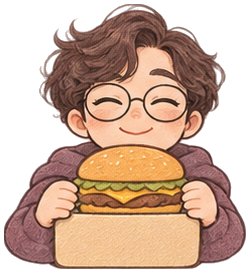
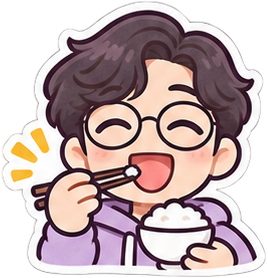
Adapt Studio sticker captions to each illustration

diff --git a/components/studio/studioCanvas.ts b/components/studio/studioCanvas.ts
@@ -1,4 +1,6 @@
-import { studioStickerBounds, studioStickerCaptionSlot, studioStickerCells, studioStickerCrossesSeam, type StickerRect } from "@/lib/studioStickerGeometry";
+import {
+  studioStickerBounds, studioStickerCaptionOutside, studioStickerCaptionSlot, studioStickerCells, studioStickerCrossesSeam, type StickerRect,
+} from "@/lib/studioStickerGeometry";
 import { studioStickerLayout } from "@/lib/studioTools";
 
 export const studioImageTypes = ["image/png", "image/jpeg", "image/webp"];
@@ -91,34 +93,91 @@ function splitCaption(text: string): string[] {
   return [graphemes.slice(0, split).join("").trimEnd(), graphemes.slice(split).join("").trimStart()];
 }
 
+const stickerFont = "system-ui, sans-serif";
+const stickerLineHeight = 1.16;
+const stickerCaptionColors = [
+  { hue: 292, ink: "#89519f", edge: "#e9ccfa" },
+  { hue: 350, ink: "#a34a74", edge: "#f6c9df" },
+  { hue: 28, ink: "#985429", edge: "#ffdbb4" },
+  { hue: 119, ink: "#557544", edge: "#daedb9" },
+  { hue: 177, ink: "#397a74", edge: "#bdeee5" },
+  { hue: 226, ink: "#536aa3", edge: "#cddcfc" },
+];
+
+function stickerCaptionPalette(pixels: Uint8ClampedArray, stride: number, art: StickerRect) {
+  const weights = stickerCaptionColors.map(() => 0);
+  for (let y = art.top; y < art.top + art.height; y += 4) {
+    for (let x = art.left; x < art.left + art.width; x += 4) {
+      const index = (y * stride + x) * 4;
+      if (pixels[index + 3] < 192) continue;
+      const red = pixels[index], green = pixels[index + 1], blue = pixels[index + 2];
+      const max = Math.max(red, green, blue);
+      const chroma = max - Math.min(red, green, blue);
+      if (chroma < 22 || max < 65) continue;
+      const sector = max === red ? (green - blue) / chroma
+        : max === green ? 2 + (blue - red) / chroma
+        : 4 + (red - green) / chroma;
+      const hue = (sector * 60 + 360) % 360;
+      if (hue >= 12 && hue <= 52 && red > 160 && chroma < 105) continue;
+      const distance = (other: number) => Math.min(Math.abs(other - hue), 360 - Math.abs(other - hue));
+      const closest = stickerCaptionColors.reduce((best, color, i) => (
+        distance(color.hue) < distance(stickerCaptionColors[best].hue) ? i : best
+      ), 0);
+      weights[closest] += chroma;
+    }
+  }
+  return stickerCaptionColors[weights.indexOf(Math.max(...weights))];
+}
+
 function stickerCaption(
   context: CanvasRenderingContext2D, pixels: Uint8ClampedArray, stride: number, art: StickerRect, text: string,
 ) {
-  const font = "system-ui, sans-serif";
-  context.font = `750 100px ${font}`;
-  const layout = (lines: string[]) => {
-    const bandHeight = Math.max(2, Math.round(art.height * (lines.length === 1 ? .20 : .29)));
-    const slot = studioStickerCaptionSlot(pixels, stride, art, bandHeight);
-    if (!slot) return null;
-    const widest = Math.max(...lines.map(line => context.measureText(line).width), 1) / 100;
-    const size = Math.min(slot.height / (lines.length * 1.2), slot.width * .86 / widest, art.width * .175);
-    return { lines, slot, size };
+  const shortSide = Math.min(art.width, art.height);
+  const maxSize = shortSide * .18;
+  context.font = `750 100px ${stickerFont}`;
+  context.textAlign = "center";
+  context.textBaseline = "middle";
+  const measure = (lines: string[], maxWidth: number, maxHeight: number) => {
+    const metrics = lines.map(line => context.measureText(line));
+    const widest = metrics.map(line => Math.max(line.width, 2 * Math.max(line.actualBoundingBoxLeft, line.actualBoundingBoxRight)));
+    const width = Math.max(1, ...widest) / 100 + .14;
+    const height = Math.max(1, ...metrics.map(line => 2 * Math.max(line.actualBoundingBoxAscent, line.actualBoundingBoxDescent) / 100))
+      + (lines.length - 1) * stickerLineHeight + .14;
+    const size = Math.min(maxSize, maxWidth / width, maxHeight / height);
+    return { lines, size, width: width * size, height: height * size };
   };
-  const oneLine = layout([text]);
-  const twoLines = text.length > 6 ? layout(splitCaption(text)) : null;
-  const chosen = twoLines && twoLines.size > (oneLine?.size ?? 0) * 1.16 ? twoLines : oneLine;
-  if (!chosen || chosen.size < art.height * .063) return null;
-
-  const { slot } = chosen;
-  let luminance = 0, samples = 0;
-  for (let y = slot.top; y < slot.top + slot.height; y += 3) {
-    for (let x = slot.left; x < slot.left + slot.width; x += 3) {
-      const index = (y * stride + x) * 4;
-      luminance += pixels[index] * .2126 + pixels[index + 1] * .7152 + pixels[index + 2] * .0722;
-      samples++;
+  const lineOptions = text.length > 6 ? [[text], splitCaption(text)] : [[text]];
+  const choose = (width: number, height: number) => {
+    const [single, wrapped] = lineOptions.map(lines => measure(lines, width, height));
+    return wrapped && wrapped.size > single.size * 1.16 ? wrapped : single;
+  };
+  const { ink, edge } = stickerCaptionPalette(pixels, stride, art);
+  const slot = studioStickerCaptionSlot(pixels, stride, art, Math.max(2, Math.round(art.height * .19)));
+  if (slot && slot.width >= art.width * .5) {
+    const label = choose(slot.width * .92, slot.height);
+    if (label.size >= maxSize * .86) {
+      const left = slot.left + (slot.width - label.width) / 2;
+      const top = slot.top + (slot.height - label.height) / 2;
+      let sum = 0, squares = 0, samples = 0;
+      for (let y = Math.ceil(top); y < top + label.height; y += 2) {
+        for (let x = Math.ceil(left); x < left + label.width; x += 2) {
+          const i = (y * stride + x) * 4;
+          const luma = pixels[i] * .2126 + pixels[i + 1] * .7152 + pixels[i + 2] * .0722;
+          sum += luma;
+          squares += luma * luma;
+          samples++;
+        }
+      }
+      const brightness = sum / samples;
+      if (squares / samples - brightness ** 2 < 16 ** 2) {
+        return { ...label, left, top, ink: brightness < 128 ? edge : ink, edge: brightness < 128 ? ink : edge };
+      }
     }
   }
-  return { ...chosen, font, ink: luminance / samples > 145 ? "#231e27" : "#fff8ef" };
+
+  const label = choose(art.width * .86, shortSide * .40);
+  const placement = studioStickerCaptionOutside(pixels, stride, art, label.width, label.height);
+  return { ...label, ...placement, ink, edge };
 }
 
 async function renderStickerCell(image: HTMLImageElement, cell: StickerRect, caption: string): Promise<Blob | null> {
@@ -132,25 +191,33 @@ async function renderStickerCell(image: HTMLImageElement, cell: StickerRect, cap
   if (!art || art.width < sourceWidth * .19 || art.height < sourceHeight * .19) return null;
   const { left, top, width, height } = art;
   const padding = Math.max(1, Math.round(Math.max(width, height) * .025));
-  const outputScale = 512 / (Math.max(width, height) + 2 * padding);
-  const output = canvas(Math.round((width + 2 * padding) * outputScale), Math.round((height + 2 * padding) * outputScale));
+  const text = caption.trim();
+  const label = text ? stickerCaption(original.context, pixels, sourceWidth, art, text) : null;
+  const minX = Math.min(left, label?.left ?? left) - padding;
+  const minY = Math.min(top, label?.top ?? top) - padding;
+  const outputWidth = Math.max(left + width, label ? label.left + label.width : 0) + padding - minX;
+  const outputHeight = Math.max(top + height, label ? label.top + label.height : 0) + padding - minY;
+  const outputScale = 512 / Math.max(outputWidth, outputHeight);
+  const output = canvas(Math.round(outputWidth * outputScale), Math.round(outputHeight * outputScale));
   const { context } = output;
   context.scale(outputScale, outputScale);
-  context.drawImage(original.element, left, top, width, height, padding, padding, width, height);
-  const text = caption.trim();
-  if (text) {
-    const label = stickerCaption(context, pixels, sourceWidth, art, text);
-    if (!label) return null;
-    const { lines, slot, size, font, ink } = label;
-    context.font = `750 ${size}px ${font}`;
+  context.drawImage(original.element, left, top, width, height, left - minX, top - minY, width, height);
+  if (label) {
+    const { lines, size, ink, edge } = label;
+    context.font = `750 ${size}px ${stickerFont}`;
     context.textAlign = "center";
     context.textBaseline = "middle";
     context.fillStyle = ink;
-    lines.forEach((line, index) => context.fillText(
-      line,
-      padding + slot.left - left + slot.width / 2,
-      padding + slot.top - top + slot.height / 2 + (index - (lines.length - 1) / 2) * size * 1.15,
-    ));
+    context.strokeStyle = edge;
+    context.lineWidth = size * .105;
+    context.lineJoin = "round";
+    const x = label.left - minX + label.width / 2;
+    const centerY = label.top - minY + label.height / 2;
+    lines.forEach((line, index) => {
+      const y = centerY + (index - (lines.length - 1) / 2) * size * stickerLineHeight;
+      context.strokeText(line, x, y);
+      context.fillText(line, x, y);
+    });
   }
   return encode(output.element);
 }

diff --git a/components/studio/StudioStickerTool.tsx b/components/studio/StudioStickerTool.tsx
@@ -37,10 +37,10 @@ const samplePhoto = "/studio/selfie.png";
 const sheetSize = "1536x1024";
 const singleSize = "1024x1024";
 const stickerBackground = "Use a perfectly flat pure green (#00ff00) background so the artwork can be cut out. Never use that background color in the character or props. Do not draw any lettering.";
-const captionSpace = "Keep the expression and face clear. Leave a wide, flat, solid unlettered surface within a natural prop or the front of the clothing in the lower half of the sticker. Use a restrained palette, fine linework, and an expressive pose. Keep the details and surrounding space simple, with no white halo, thick outlines, detached labels or excess decoration.";
+const stickerDirection = "Make the expression and gesture instantly readable at chat sticker size. Use a lively, cohesive palette, clean linework and a crisp sticker silhouette. Let the pose tell the story. Add a small expression accent or prop when it helps the joke or emotion.";
 const drawFace = (style: FaceStyle) => style === "real"
   ? "Preserve the recognisable, photoreal face and draw the body and props."
-  : "Make a recognisable illustrated character from the portrait.";
+  : "Make a recognisable chibi character from the portrait, with expressive eyes, rounded proportions and soft shading.";
 
 function StudioStickerPreview({ source, caption, composed }: Sticker & { caption: string }) {
   const [rendered, setRendered] = useState<{ source: string; caption: string; url: string }>();
@@ -192,7 +192,7 @@ export function StudioStickerTool({ billingNotice }: { billingNotice?: string })
       const blob = await runPack({
         inputKey: photo.source,
         prompt: "Create exactly " + words.length + " separate chat sticker drawings from this portrait. Arrange them in " + columns + " equal columns and " + rows + " equal rows. Put one centered drawing in each cell with a clear green gutter on every side. All drawings must have the same apparent scale. Nothing touches or crosses a cell edge, including any prop. Leave unused cells plain green. Keep the same face, style, palette and proportions. " +
-          drawFace(style) + " " + stickerBackground + " " + captionSpace +
+          drawFace(style) + " " + stickerBackground + " " + stickerDirection +
           " In left-to-right, top-to-bottom order, each pose and expression should match its caption: " + JSON.stringify(words),
         size: sheetQuote.quote.size,
         quote: sheetQuote.quote,
@@ -273,7 +273,7 @@ export function StudioStickerTool({ billingNotice }: { billingNotice?: string })
         inputKey: current.source || reference.source,
         prompt: (current.source ? "The left half is the reference portrait. The right half is an existing sticker. Ignore any lettering in the references. " : "Use the supplied reference portrait. ") +
           "Draw one new sticker with the same identity, keeping the figure centered with clear space around it. " +
-          drawFace(reference.style) + " " + stickerBackground + " " + captionSpace +
+          drawFace(reference.style) + " " + stickerBackground + " " + stickerDirection +
           " Change the pose, expression and props so the drawing depicts this new caption: " + JSON.stringify(replacement.caption.trim()),
         size: singleQuote.quote.size,
         quote: singleQuote.quote,

diff --git a/lib/studioStickerGeometry.ts b/lib/studioStickerGeometry.ts
@@ -108,3 +108,52 @@ export function studioStickerCaptionSlot(
   }
   return best;
 }
+
+export function studioStickerCaptionOutside(
+  data: Uint8ClampedArray, stride: number, art: StickerRect, width: number, height: number,
+): StickerRect {
+  const gap = Math.min(art.width, art.height) * .023;
+  const artArea = art.width * art.height;
+  let best = { left: art.left, top: art.top - height - gap, width, height };
+  let bestScore = Infinity;
+
+  for (const vertical of [true, false]) {
+    const crossStart = vertical ? art.left : art.top;
+    const crossSize = vertical ? art.width : art.height;
+    const crossSpan = vertical ? width : height;
+    const depthStart = vertical ? art.top : art.left;
+    const depthSize = vertical ? art.height : art.width;
+    const captionDepth = vertical ? height : width;
+    for (const anchor of [.5, .27, .73]) {
+      const center = crossStart + crossSize * anchor;
+      const cross = Math.round(center - crossSpan / 2);
+      const start = Math.max(crossStart, Math.floor(cross - gap));
+      const end = Math.min(crossStart + crossSize, Math.ceil(cross + crossSpan + gap));
+      for (const direction of [1, -1]) {
+        const edge = direction === 1 ? depthStart : depthStart + depthSize - 1;
+        let depth = edge;
+        while (Math.abs(depth - edge) < depthSize) {
+          let occupied = false;
+          for (let i = start; i < end && !occupied; i++) {
+            const pixel = vertical ? depth * stride + i : i * stride + depth;
+            occupied = data[pixel * 4 + 3] >= 64;
+          }
+          if (occupied) break;
+          depth += direction;
+        }
+        if (Math.abs(depth - edge) >= depthSize) continue;
+        const beside = direction === 1 ? depth - captionDepth - gap : depth + 1 + gap;
+        const left = vertical ? cross : beside;
+        const top = vertical ? beside : cross;
+        const combinedWidth = Math.max(art.left + art.width, left + width) - Math.min(art.left, left);
+        const combinedHeight = Math.max(art.top + art.height, top + height) - Math.min(art.top, top);
+        const score = combinedWidth * combinedHeight / artArea + Math.abs(anchor - .5) * .17;
+        if (score < bestScore) {
+          best = { left, top, width, height };
+          bestScore = score;
+        }
+      }
+    }
+  }
+  return best;
+}
